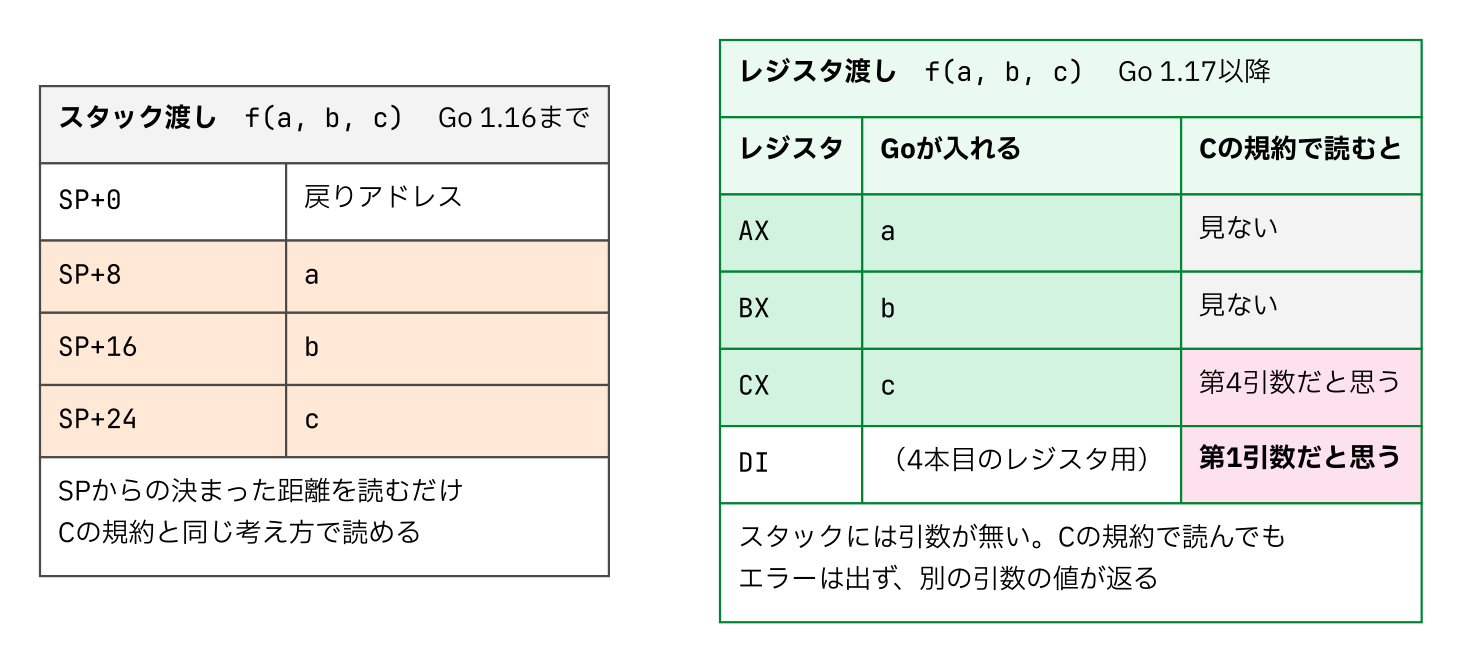
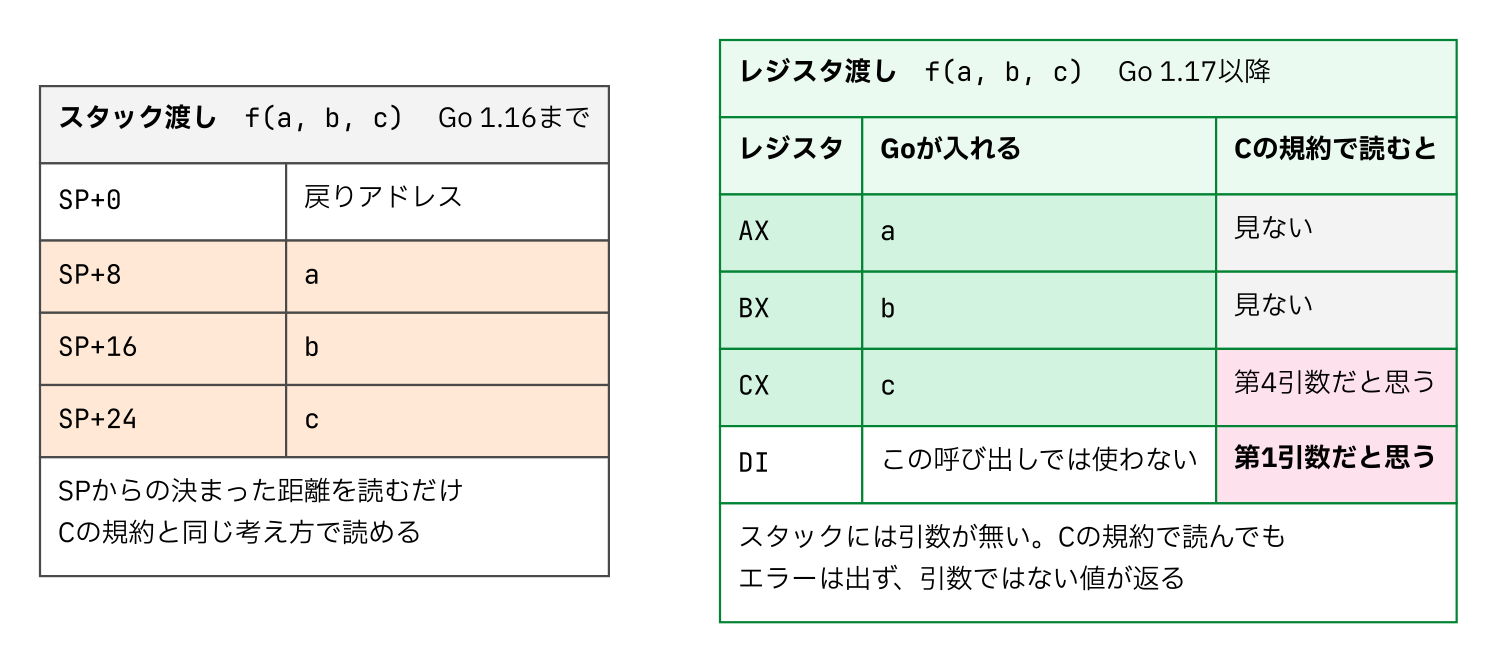
fix(go-ebpf-primer): 二重注入の断定、スタック走査の順序、RDIの値、畳み込みを訂正する
独立検証（reviews/20260911-...-independent-verification.md）の指摘10件と、
前回レポートの任意4件に対応。

重大:
- 既存traceparentの検査は先頭1023バイトまでなので、二重注入は起きうる。
  「二重になることはありません」を条件付きの説明に改め脚注で根拠を示す

要修正:
- ライブラリ計装の断定にuprobeという条件を付ける。JavaエージェントでNettyを
  計装する実装があるため（1・6・8章と図2）
- スタック走査の順序を「PCから関数を特定→フレーム情報→戻りアドレス」に訂正。
  図2・図3も合わせ、図3のアドレスの上下を図2に揃える
- 整数3個の呼び出しではRDIに引数を割り当てないので「別の引数の値」は誤り
- double(21)は42へ畳み込まれるので「2倍の計算が埋め込まれる」は誤り（図も）
- HPACKの索引は静的表なら過去の通信なしで解釈できる
- 親goroutineの遡りはサーバー側にもある

軽微・任意:
- 「89個の構造体」を削り154フィールドのみに
- otelcの生成コードの識別子を短縮している旨を明記
- -workが残すのはビルドキャッシュではなく一時作業ディレクトリ
- ebpf.ioを日本語版へ
- オフセット表の検索を「通常の表検索」に限定
- 「次の節」が次章を指していた2箇所
- この例ではパディングの大きさは変わらない

diff --git a/books/go-ebpf-primer/40-hurdle1_uretprobe.md b/books/go-ebpf-primer/40-hurdle1_uretprobe.md
@@ -23,12 +23,12 @@ title: "難所1　uretprobeが使えない"
 
 ここで問題になるのは、ポインタの補正そのものではありません。補正するために、ランタイムがスタックを**辿らなければならない**ことです。
 
-辿るというのが何をすることなのか、具体的に見ておきます。ランタイムはまず新しい領域を確保して、いま使っている範囲を丸ごとコピーします。そのあと、フレームを1つずつ辿って、コピーした側のポインタを直していきます。出発点は、いま実行中の関数のフレームです。ランタイムはそこに積まれた戻りアドレスを読みます。その値は呼び出し元の関数の中にある命令のアドレスなので、4章で見た `.gopclntab`（命令アドレスからGoの関数名を引く表）を引けば、どの関数のフレームなのかが分かります。関数が分かると、そのフレームの大きさと、フレームのどこにポインタがあるかも分かります。ポインタの位置が分かるから、それらを新しいアドレスへ書き換えられ、大きさが分かるから、次のフレームがどこから始まるのかも決まります。あとは呼び出し元のフレームへ移って、goroutineの起点まで同じことを繰り返します。
+辿るというのが何をすることなのか、具体的に見ておきます。ランタイムはまず新しい領域を確保して、いま使っている範囲を丸ごとコピーします。そのあと、フレームを1つずつ辿って、コピーした側のポインタを直していきます。出発点は、止まっているgoroutineのプログラムカウンタとスタックポインタです。ランタイムはプログラムカウンタから、4章で見た `.gopclntab`（命令アドレスからGoの関数名を引く表）を引いて、いま実行中の関数を特定します。関数が分かると、そのフレームの大きさと、フレームのどこにポインタがあるかが分かります。ポインタの位置が分かるから、それらを新しいアドレスへ書き換えられます。フレームの大きさが分かるから、呼び出し元へ戻るアドレスがどこに積まれているかも決まります。その戻りアドレスを読んで、また同じ表を引けば、次に処理する呼び出し元の関数が分かります。あとはそちらへ移って、goroutineの起点まで同じことを繰り返します。
 
-1フレームを処理するのに必要な情報は、どれも「戻りアドレスからどの関数かを引けること」の先にあります。関数が引けなければ、フレームの大きさが分からず、次のフレームがどこから始まるのかも決められません。値を読めるかどうかではなく、読んだ値から関数に辿り着けるかどうかが問題になります。
+つまり1フレームを処理するたびに、「読み取った戻りアドレスから関数を引く」ことが次の一歩の前提になります。関数が引けなければ、そこから先のフレームの大きさが分からず、走査はそこで止まります。値を読めるかどうかではなく、読んだ値から関数に辿り着けるかどうかが問題になります。
 
 ![スタックを移すときの1フレームずつの走査](/images/20260911-stack-walk.png)
-*図2: 実線の矢印は処理の順序、破線は呼び出し元のフレームへ移って同じ手順を繰り返すことを表す。フレームの大きさとポインタの位置は、戻りアドレスから引いた関数の情報として得られる。*
+*図2: 実線の矢印は処理の順序、破線は呼び出し元のフレームへ移って同じ手順を繰り返すことを表す。いま実行中の関数はプログラムカウンタから引き、その関数の情報からフレームの大きさとポインタの位置が決まる。*
 
 uretprobeが書き換えた戻りアドレスは、Goバイナリの関数ではなくカーネルが用意したトランポリンを指しています。この領域はGoのコードが置かれている範囲の外にあり、`/proc/<PID>/maps` では `[uprobes]` という名前で見えます。表を引いても該当する関数はありません。スタックのコピーやGCの走査は途中でやめられない処理なので、ランタイムは `fatal error: unknown caller pc` で落ちます。go1.26では `runtime/traceback.go` の `unwinder.next` が、戻りアドレスを `findfunc` に渡して失敗したときにこのエラーを投げています。
 
@@ -55,7 +55,7 @@ runtime.morestack()
 下から読むと、スタックが足りなくなって `morestack` に入り、`newstack` が引っ越しの本体である `copystack` を呼び、その中でフレームを辿ろうとして落ちています。1行目の `0x7fffffffe000` がトランポリンのアドレスで、`crypto/x509.(*Certificate).Verify` から戻る先がそこになっていた、という報告です。go1.10のときの報告なので、フレームを辿る部分の関数名は当時の `gentraceback` になっています。これがGoとuretprobeが相容れない理由です（[golang/go#22008](https://github.com/golang/go/issues/22008)）。
 
 ![戻りアドレスから関数を引けないと、スタックを辿れない](/images/20260911-unwind-failure.png)
-*図3: 実線の矢印は処理の流れ、破線はスタックから読み取る値を表す。ランタイムは戻りアドレスを手がかりに「どの関数のフレームか」を `.gopclntab` から引く。トランポリンはGoのリンカが知らない領域なのでこの表に登録されておらず、そこで辿れなくなる。*
+*図3: 実線の矢印は処理の流れ、破線はスタックから読み取る値を表す。ランタイムは読み取った戻りアドレスを手がかりに「呼び出し元はどの関数か」を `.gopclntab` から引く。トランポリンはGoのリンカが知らない領域なのでこの表に登録されておらず、そこで辿れなくなる。*
 
 ## 動くスタックの実測
 
@@ -187,7 +187,7 @@ $ go tool objdump -s 'main\.Lookup$' s2_ret
 
 ただし、いま見ている `Lookup` の `defer` は `mu.Unlock()` で、`recover` はしません。この関数の中でパニックが起きれば、2つ目の `RET` にも戻らずに巻き戻りが外へ抜けていきます。先に見たとおり、外側で `recover` されても、飛ばされた `Lookup` はどちらの `RET` も通りません。つまり `RET` が2つあることと、パニック時にその2つ目へ来ることは別の話です。どの経路で抜けるかを呼び出しごとに見分けられないからこそ、OBIは全部の `RET` にuprobeを置きます。
 
-ついでに、この出力には後の節で扱う要素が2つ写り込んでいます。1行目の `CMPQ SP, 0x10(R14)` は、いま説明したスタック伸長の判定です。`R14` の指す構造体の16バイト目に入っている値とスタックポインタを比べ、足りなければ最終行の `runtime.morestack_noctxt` へ飛びます。その `R14` が何なのかは、難所2で扱います。
+ついでに、この出力にはここまでの説明と難所2に関係する要素が2つ写り込んでいます。1行目の `CMPQ SP, 0x10(R14)` は、いま説明したスタック伸長の判定です。`R14` の指す構造体の16バイト目に入っている値とスタックポインタを比べ、足りなければ最終行の `runtime.morestack_noctxt` へ飛びます。その `R14` が何なのかは、難所2で扱います。
 
 ## OBIの実装
 

diff --git a/books/go-ebpf-primer/50-hurdle3_offsets.md b/books/go-ebpf-primer/50-hurdle3_offsets.md
@@ -6,7 +6,7 @@ title: "難所3　バージョン依存のフィールドオフセット"
 
 8章で見たプロトコル計装なら、ソケットを流れるバイト列から同じものが取れそうに思えます。平文のHTTP/1.1なら実際に取れていて、OBIは `GET /items HTTP/1.1` という先頭のバイト列からメソッドとパスを読み出しています。それでもGoに対して構造体を読むのは、バイト列では届かない場合があるからです。
 
-1つはTLSです。Goは `crypto/tls` を自前で持っていて静的リンクするので、6章で触れたOpenSSLの共有ライブラリの関数にuprobeを置くという手が使えません。ソケットに現れるのは暗号化された後のバイト列だけです。OBIはGoのプロセスに対しては `crypto/tls.(*Conn).Read` と `Write` にuprobeを置き、暗号化される前と復号された後の平文をそこで読んでいます。もう1つはHTTP/2とgRPCです。HTTP/2はヘッダの名前と値を[HPACK](https://www.rfc-editor.org/rfc/rfc7541.html)という仕組みで圧縮し、接続ごとに作る表の索引に置き換えます。2回目以降のリクエストの `:path` は索引だけになるので、その接続を最初のバイトから見ていなければ元の文字列に戻せません。OBIはこの場合、スパン名を `*` に落とします。加えて、ソケットから拾う経路が既定で見るのはリクエストの先頭256バイトだけです（設定で本文を取り込む機能を有効にすれば、HTTP/1.1ならもっと長く扱えます）。ルーティングのテンプレートのように、そもそもバイト列に現れない値もあります。
+1つはTLSです。Goは `crypto/tls` を自前で持っていて静的リンクするので、6章で触れたOpenSSLの共有ライブラリの関数にuprobeを置くという手が使えません。ソケットに現れるのは暗号化された後のバイト列だけです。OBIはGoのプロセスに対しては `crypto/tls.(*Conn).Read` と `Write` にuprobeを置き、暗号化される前と復号された後の平文をそこで読んでいます。もう1つはHTTP/2とgRPCです。HTTP/2はヘッダの名前と値を[HPACK](https://www.rfc-editor.org/rfc/rfc7541.html)という仕組みで圧縮し、索引に置き換えることがあります。索引には規格で決まっている静的な表と、接続ごとに作る動的な表があります。静的な表の項目や、その場で文字列が送られる形式なら、途中から観測を始めても読めます。読めないのは、観測を始める前に動的な表へ登録された項目が参照された場合です。OBIはこのように必要なヘッダを復元できないとき、スパン名を `*` に落とします。加えて、ソケットから拾う経路が既定で見るのはリクエストの先頭256バイトだけです（設定で本文を取り込む機能を有効にすれば、HTTP/1.1ならもっと長く扱えます）。ルーティングのテンプレートのように、そもそもバイト列に現れない値もあります。
 
 だからGoに対する計装は、直列化される前の構造体を読みます。`http.Request` の `Method` や `URL`、gRPCの `transport.Stream` の `method` を、バイト位置で読み出します。外部の計装ツールは、どのフィールドがどこにあるかをどうやって知るのでしょうか。ここが4つの中で最も対処が難しい難所です。しくじったときの症状は難所2と同型で、クラッシュではなく、中身の誤ったトレースとして現れます。
 
@@ -116,7 +116,7 @@ v2: id=24  method=32
 追加したフィールドより後ろにあるものが、まとめてずれました。なぜこの数になるのかを、バイトの並びで見ておきます。`any` は型へのポインタとデータへのポインタの2つで16バイト、`func()` はポインタ1つで8バイト、`string` はポインタと長さで16バイトです。`uint32` は4バイトですが、直後の `string` の先頭はポインタなので8バイト境界から始まる必要があり、次の8バイト境界まで詰め物が入ります。
 
 ![フィールドを1つ足すと後ろがずれる](/images/20260911-struct-byte-band.png)
-*図1: 矢印はフィールドを1つ足したという変更を表す。詰め物の位置と大きさも変わるので、後ろのフィールドは足した分と同じ8バイトだけずれる。*
+*図1: 矢印はフィールドを1つ足したという変更を表す。後ろのフィールドは足した分と同じ8バイトだけずれる。*
 
 `method` の位置に24をハードコードしていたコードは、`v2` に対しては `id` と詰め物をまたいだ中途半端な位置を読みます。
 
@@ -131,7 +131,7 @@ v2: id=24  method=32
 | 1.69.0 以降 | 24 |
 | 1.77.0 以降 | 16 |
 
-内部パッケージ `internal/transport` の型なので、互換性の約束は及びません。Goでは `internal` を含むパスのパッケージを外部から参照できず、この型はライブラリの利用者に見せるものではありません。だから開発者は、更新のときにフィールドの並びを自由に変えられます。その自由さの代償を、メモリ位置で外から読むOBIが引き受けています。同じ表の中では `golang.org/x/net/http2.ClientConn.fr` がさらに動いていて、記録された区間は8つ、位置の変化は7回にのぼります（うち一度は、以前の位置に戻っています）。`offsets.json` 全体では89個の構造体、154個のフィールドを追跡しており、うち43個のフィールドが「過去に一度以上動いた」記録を持っています（v0.13.0時点の数で、構造体のサイズや定数のエントリは除いています）。
+内部パッケージ `internal/transport` の型なので、互換性の約束は及びません。Goでは `internal` を含むパスのパッケージを外部から参照できず、この型はライブラリの利用者に見せるものではありません。だから開発者は、更新のときにフィールドの並びを自由に変えられます。その自由さの代償を、メモリ位置で外から読むOBIが引き受けています。同じ表の中では `golang.org/x/net/http2.ClientConn.fr` がさらに動いていて、記録された区間は8つ、位置の変化は7回にのぼります（うち一度は、以前の位置に戻っています）。`offsets.json` 全体では154個のフィールドの位置を追跡しており、うち43個のフィールドが「過去に一度以上動いた」記録を持っています（v0.13.0時点の数で、構造体のサイズや定数のエントリは除いています）。
 
 ![バージョン間でオフセットがずれる](/images/20260911-offset-shift.png)
 *図2: 矢印は計装コードがどの位置を読むかを表す。ハードコードした `+88` は grpc 1.66 では `method` を指すが、1.69 では別のフィールドを指す。クラッシュせずに「それらしく動いてしまう」のが最悪の結果になる。*

diff --git a/books/go-ebpf-primer/45-hurdle2_abi.md b/books/go-ebpf-primer/45-hurdle2_abi.md
@@ -22,7 +22,7 @@ RAX, RBX, RCX, RDI, RSI, R8, R9, R10, R11
 
 この列に載るのは整数とポインタの引数です。9個を超える分やレジスタに収まらない大きな構造体はスタックに置かれ、浮動小数点の引数は2章で触れた浮動小数点用のレジスタ群で渡ります。本書がこの整数の列だけを見ていくのは、OBIが読む引数がポインタと整数しかないからです。計装の対象は `net/http` やgRPCの関数で、そこで受け渡されるのは構造体へのポインタ、文字列、整数です。あとで引用するOBIのマクロにも、浮動小数点用のレジスタを読むものは1つもありません。`RAX` と `AX` という表記の揺れについては、2章で断ったとおりです。
 
-この変更でGoの関数呼び出しは速くなりましたが、外から引数を読む側は、どの引数がどのレジスタに入るのかをアーキテクチャごとに知っていなければならなくなりました。汎用のeBPFツールは、Linuxの標準であるCの呼び出し規約を前提に作られています。Cもレジスタで引数を渡しますが、使うレジスタの選び方が違います。Cは `RDI, RSI, RDX, RCX, R8, R9` の順なので、第1引数として `RDI` を読みます。Goがそこに入れているのは4番目のレジスタで渡される値です。空でもゼロでもなく、別の引数の値がそこにあります。何番目の引数がそこに来るかは、引数の型で変わります。ABIInternalは各引数を基本的な成分に分解してからレジスタに割り当てるので、`int` のような値は1本、文字列とインタフェースは2本、スライスは3本を使います。整数だけを並べた関数なら `RDI` は第4引数ですが、`f(a string, b, c int)` なら第3引数の `c` です。この後で引用するOBIのマクロ `GO_PARAM4` も、「第4引数」ではなく「4本目のレジスタ」を指しています。
+この変更でGoの関数呼び出しは速くなりましたが、外から引数を読む側は、どの引数がどのレジスタに入るのかをアーキテクチャごとに知っていなければならなくなりました。汎用のeBPFツールは、Linuxの標準であるCの呼び出し規約を前提に作られています。Cもレジスタで引数を渡しますが、使うレジスタの選び方が違います。Cは `RDI, RSI, RDX, RCX, R8, R9` の順なので、第1引数として `RDI` を読みます。Goの第1引数は `RAX` なので、読む場所がずれます。`RDI` に何が入っているかは呼び出しによって変わります。ABIInternalは各引数を基本的な成分に分解してからレジスタに割り当てるので、`int` のような値は1本、文字列とインタフェースは2本、スライスは3本を使います。4本目まで届く呼び出しなら別の引数の成分がそこに入り、整数3個の `Add3(1, 2, 3)` のように3本で足りる呼び出しなら、`RDI` は引数として使われず、前の処理が残した値がそのままあります。`f(a string, b, c int)` なら4本目は第3引数の `c` です。この後で引用するOBIのマクロ `GO_PARAM4` も、「第4引数」ではなく「4本目のレジスタ」を指しています。
 
 厄介なのは、間違えても何も起きないことです。ツールは正常に動き、値を返してきます。エラーもクラッシュも出ません。ただ中身が違うだけです。難所1のuretprobeはアプリが落ちるので気づけましたが、こちらは気づけません。
 
@@ -147,7 +147,7 @@ typedef struct go_addr_key {
 
 必要なのは「あのときのgoroutineと、いまのgoroutineが同じか」という判定であって、人間が読む番号ではありません。アドレスはその判定に十分で、しかも構造体の中身を一切読まずに済みます。
 
-この選び方が意味を持つのは、次の節との関係です。`goid` を読むには「`g` 構造体の先頭から何バイト目か」を知らなければならず、それはGoのバージョンごとに変わりえます。アドレスを使うかぎり、その追従が要りません。実際、OBIのオフセット表に `runtime.g` のエントリは存在しません。
+この選び方が意味を持つのは、次章のフィールドオフセットの問題との関係です。`goid` を読むには「`g` 構造体の先頭から何バイト目か」を知らなければならず、それはGoのバージョンごとに変わりえます。アドレスを使うかぎり、その追従が要りません。実際、OBIのオフセット表に `runtime.g` のエントリは存在しません。
 
 ![uprobe 発火時に OBI が読むもの](/images/20260911-goroutine-key.png)
 *図2: 実線の矢印はデータの流れ、丸印の付いた破線は「読まない」ことを表す。OBIはR14（arm64ではR28）の値をそのまま goroutine の識別子に使い、ポインタの先にある `g` 構造体の中身は読まない。フィールドの並びがバージョンで変わっても壊れない。*

diff --git a/books/go-ebpf-primer/00-introduction.md b/books/go-ebpf-primer/00-introduction.md
@@ -4,7 +4,7 @@ title: "はじめに"
 
 本書は、Go Conference 2026での筆者の登壇「[OpenTelemetry eBPF Instrumentationの舞台裏](https://gocon.jp/2026/timetable/1263399/)」の解説資料です。登壇は40分の上級者向けセッションですが、本書は同じ内容を、計算機の仕組みを学び始めたばかりの読者でも前提知識の章から順に読めば追えるように書き直したものです。
 
-[**eBPF**](https://ebpf.io/)（Linuxカーネルの中へ小さな観測プログラムを差し込む仕組み。詳しくは本文で扱います）を使うと、アプリケーションを変更せずにHTTPやgRPCの分散トレースを取得できます。いわゆる**ゼロコード計装**（zero-code instrumentation）です。再ビルドも再デプロイも要らず、言語も問いません。製品の説明ではそう語られます。
+[**eBPF**](https://ebpf.io/ja/)（Linuxカーネルの中へ小さな観測プログラムを差し込む仕組み。詳しくは本文で扱います）を使うと、アプリケーションを変更せずにHTTPやgRPCの分散トレースを取得できます。いわゆる**ゼロコード計装**（zero-code instrumentation）です。再ビルドも再デプロイも要らず、言語も問いません。製品の説明ではそう語られます。
 
 ところが、この計装の定石のひとつ（関数から戻る瞬間で発火するフック）をGoのバイナリに使うと、最悪の場合、観測対象のGoプログラムが次のエラーを出して落ちます。
 
@@ -16,7 +16,7 @@ fatal error: unknown caller pc
 
 本書では、この種のつまずきを4つの**難所**として扱います。難所の正体は、Goを高速かつ書きやすい言語にしている設計そのものです。一般的なeBPF計装の定石は、スタックがOSに管理されて動かないこと、呼び出し規約がプラットフォームの標準に従うことを前提にしています。Cで書かれたプログラムはこの2つを満たします。一方Goは、goroutineのスタックを実行中に動かし、独自の呼び出し規約を持ち、スケジューリングもメモリ管理もランタイムが自前で抱えています。
 
-題材にするのは、[Grafana Beyla](https://grafana.com/oss/beyla-ebpf/)がOpenTelemetryプロジェクトに寄贈されて生まれた[**OpenTelemetry eBPF Instrumentation**](https://opentelemetry.io/ja/docs/zero-code/obi/)（OBI）です。OBIが `net/http` やgRPCといったライブラリの関数まで踏み込んで計装するのは、Goに対してだけです（他の言語でもランタイム内部の関数にはフックを置きますが、その上で動くライブラリには届きません。この違いは8章で見ます）。4つの難所には、手元で実行して確かめられるコードを用意しました。そのうえで、同じことをOBIが実際にどう書いているかを見ます。
+題材にするのは、[Grafana Beyla](https://grafana.com/oss/beyla-ebpf/)がOpenTelemetryプロジェクトに寄贈されて生まれた[**OpenTelemetry eBPF Instrumentation**](https://opentelemetry.io/ja/docs/zero-code/obi/)（OBI）です。OBIが `net/http` やgRPCといったライブラリの関数まで、uprobeで踏み込んで計装するのはGoに対してだけです（他の言語ではランタイム内部の関数にフックを置く方式が中心になります。この違いは8章で見ます）。4つの難所には、手元で実行して確かめられるコードを用意しました。そのうえで、同じことをOBIが実際にどう書いているかを見ます。
 
 :::message
 本書の実行結果と引用は、次のバージョンで確かめたものです。

diff --git a/books/go-ebpf-primer/60-for_go_developers.md b/books/go-ebpf-primer/60-for_go_developers.md
@@ -39,7 +39,7 @@ DWARF（型とフィールドの位置を含むデバッグ情報）とシンボ
 
 関数のアドレスは、これでも引き続き特定できます。`go tool nm` や `go tool objdump` はシンボルテーブルが無いと動きませんが、OBIはそれらに依存していません。`pkg/internal/goexec/instructions.go` は `.gopclntab` を自前で解析します。`runtime.moduledata` にはシンボルも固定アドレスも無いため、そのコメントによれば「`.gopclntab` を指す8バイト境界の値をバイナリ中から探し、周囲のデータがmoduledataの並びに合致するかを確認する」という探し方をしています。シンボルが無くても関数の位置は割り出せる、という作りになっています。
 
-変わるのはオフセットの解決経路です。難所3で見たとおり、OBIはまずバイナリのDWARFからフィールドオフセットを読もうとします。`-w` でDWARFを落とすと、読める分がゼロになるので、全項目を `offsets.json` の表から引くことになります。つまり「目の前のバイナリに書いてある正解を読む」状態から「事前に用意された表が自分のバージョンを網羅していることを期待する」状態へ移ります。ここで注意したいのは、表より新しいバージョンのライブラリを使っていても、検索は失敗しないことです。表の検索は新しい記録から順に見ていって「このバージョン以下で最も新しい記録」を返すので、記録の範囲を超えたバージョンには、最後に記録された値がそのまま返ります。レイアウトが変わっていれば、誤った位置を読んだ結果が正しい値のようにトレースへ載ります。12章で見た「クラッシュせずにそれらしく動いてしまう」症状が、ここで出ます。項目が解決できずに欠けるのは、そのバージョンが最初の記録より古い場合か、フィールドがそもそも追跡の対象でない場合です。
+変わるのはオフセットの解決経路です。難所3で見たとおり、OBIはまずバイナリのDWARFからフィールドオフセットを読もうとします。`-w` でDWARFを落とすと、読める分がゼロになるので、全項目を `offsets.json` の表から引くことになります。つまり「目の前のバイナリに書いてある正解を読む」状態から「事前に用意された表が自分のバージョンを網羅していることを期待する」状態へ移ります。ここで注意したいのは、表より新しいバージョンのライブラリを使っていても、検索は失敗しないことです。表の検索は新しい記録から順に見ていって「このバージョン以下で最も新しい記録」を返すので、記録の範囲を超えたバージョンには、最後に記録された値がそのまま返ります。レイアウトが変わっていれば、誤った位置を読んだ結果が正しい値のようにトレースへ載ります。12章で見た「クラッシュせずにそれらしく動いてしまう」症状が、ここで出ます。通常の表検索で項目が解決できずに欠けるのは、そのバージョンが最初の記録より古い場合か、フィールドがそもそも追跡の対象でない場合です。
 
 DWARFを残しておくと計装は堅くなります。`-w` を付けるかどうかは、配布サイズと計装の確実性のどちらを取るかという判断になります。
 

diff --git a/books/go-ebpf-primer/25-go_runtime.md b/books/go-ebpf-primer/25-go_runtime.md
@@ -10,7 +10,9 @@ Goのバイナリには、書いたコードのほかにランタイムが入っ
 
 これは計装する側から見ると好都合です。誤解しやすい点を先に断っておくと、uprobeは「どのファイルの、先頭から何バイト目か」という形で置くので、共有ライブラリに置けないわけではありません（実際OBIは、TLSの通信を読むために[OpenSSL](https://www.openssl.org/)の共有ライブラリにもuprobeを置いています）。静的リンクの利点は別のところにあります。アプリのコードも、`net/http` のようなライブラリも、ランタイムも、すべてが1つのファイルに入っていて、ファイル内の位置がビルド時に決まっていることです。`/proc/<PID>/exe` から辿れるその1つのファイルを解析すれば、計装したい関数がすべて見つかります。
 
-1章で「ライブラリの関数まで踏み込んだ計装を持つ言語はGoだけ」と書いた理由も、ここにあります。JITコンパイラやインタプリタの上で動く言語では、ユーザーコードの機械語は実行時に生成されるので、実行ファイルを解析しても関数の位置は分かりません。ランタイム本体の共有ライブラリ（`libjvm.so` やCPython）には固定のアドレスがあるので、OBIはそちらへはフックを置いています。届かないのは、その上で動くライブラリの関数です。Goはコンパイル時にすべての関数の位置が決まり、シンボルテーブルや `.gopclntab` で引けます。だからこそ「アドレスにフックを置く」計装が成立します。
+1章で「ライブラリの関数までuprobeで踏み込む計装はGoだけ」と書いた理由も、ここにあります。JITコンパイラやインタプリタの上で動く言語では、ユーザーコードの機械語は実行時に生成されるので、実行ファイルを解析しても関数の位置は分かりません。ランタイム本体の共有ライブラリ（`libjvm.so` やCPython）には固定のアドレスがあるので、OBIはそちらへはフックを置いています。その上で動くライブラリの関数には、実行ファイルから位置を割り出す方式が使えません[^java-agent]。Goはコンパイル時にすべての関数の位置が決まり、シンボルテーブルや `.gopclntab` で引けます。だからこそ「アドレスにフックを置く」計装が成立します。
+
+[^java-agent]: 方式を変えれば届きます。OBIにはJavaエージェントを使う実装もあり、そちらではNettyの `SslHandler` のメソッドをバイトコードの変換で計装しています。uprobeで固定アドレスを狙う方式とは別の仕組みです。
 
 ## OSスレッドとgoroutine
 

diff --git a/books/go-ebpf-primer/20-function_call.md b/books/go-ebpf-primer/20-function_call.md
@@ -104,7 +104,7 @@ $ go tool objdump -s 'main\.double$' demo
 プラットフォームには標準の呼び出し規約があり、Linuxのamd64ならCのプログラムはみなそれに従います。外から観測する道具も、当然その標準を前提に作られています。Goがこの標準に従っていないことが、難所2の主題になります。
 
 ![スタック渡しとレジスタ渡し](/images/20260911-convention-stack-vs-register.png)
-*図3: 同じ `f(a, b, c)` の呼び出しでも、規約によって引数の置き場所が変わる。スタック渡しでは `CALL` が積んだ戻りアドレスの先、`SP+8` から引数が並ぶ。レジスタ渡しではスタックに引数が無く、Cの規約を前提に読むと第1引数として `RDI` を見るので、Goが4本目のレジスタとして使っているものの値が返る。エラーにはならず、別の引数の値が読めてしまう。*
+*図3: 同じ `f(a, b, c)` の呼び出しでも、規約によって引数の置き場所が変わる。スタック渡しでは `CALL` が積んだ戻りアドレスの先、`SP+8` から引数が並ぶ。レジスタ渡しではスタックに引数が無く、Cの規約を前提に読むと第1引数として `RDI` を見るが、この呼び出しはそこに引数を割り当てていない。エラーにはならず、引数ではない値が読めてしまう。*
 
 ## インライン展開
 
@@ -142,5 +142,5 @@ $ go build -gcflags=-m main.go
 
 :::details 解答
 1. フレームにはローカル変数のほかに戻りアドレスなどの固定分も積まれるので、間隔は「64バイト増えて240になる」とは限りませんが、およそ64バイト広がります。手元の測定では176バイトから240バイトになりました。
-2. `double` がインライン展開され、呼び出しが `CALL` として残っていないからです。`main.main` の中に `double` の中身（2倍の計算）が直接埋め込まれています。このときシンボル `main.double` 自体もバイナリから消えます。
+2. `double` がインライン展開され、呼び出しが `CALL` として残っていないからです。この例は引数が定数の `double(21)` なので、展開された2倍の計算もコンパイル時に畳み込まれ、42を読み込む命令になります。シンボル `main.double` 自体もバイナリから消えます。
 :::

diff --git a/books/go-ebpf-primer/30-ebpf.md b/books/go-ebpf-primer/30-ebpf.md
@@ -4,7 +4,7 @@ title: "eBPFとは何か"
 
 ## カーネルの中で動く小さなプログラム
 
-[eBPF](https://ebpf.io/)は、ユーザーが書いた小さなプログラムをLinuxカーネルの中にロードして、特定のイベントが起きたときに実行させる仕組みです。イベントとは、システムコールが呼ばれた、パケットが届いた、ある命令アドレスに到達した、といったものを指します。カーネルを再ビルドしたり、カーネルモジュールを書いたりする必要はありません。仕様と実装はLinuxカーネルの一部で、[カーネル側のドキュメント](https://docs.kernel.org/bpf/)にまとまっています。
+[eBPF](https://ebpf.io/ja/)は、ユーザーが書いた小さなプログラムをLinuxカーネルの中にロードして、特定のイベントが起きたときに実行させる仕組みです。イベントとは、システムコールが呼ばれた、パケットが届いた、ある命令アドレスに到達した、といったものを指します。カーネルを再ビルドしたり、カーネルモジュールを書いたりする必要はありません。仕様と実装はLinuxカーネルの一部で、[カーネル側のドキュメント](https://docs.kernel.org/bpf/)にまとまっています。
 
 たとえば「`openat` システムコールが呼ばれたら、そのファイル名を記録する」「ある命令アドレスに到達したら、その時刻を控える」といった処理を書けます。本書で扱うのは後者、つまりユーザー空間のプログラムの特定のアドレスにフックを置く使い方です。
 

diff --git a/books/go-ebpf-primer/65-conclusion.md b/books/go-ebpf-primer/65-conclusion.md
@@ -73,10 +73,11 @@ func (t *Transport) RoundTrip(req *Request) (*Response, error) {
 }
 ```
 
-`otelc go build` は前述のとおり内部で `-work` フラグを付けているため、ビルドが終わったあともGoのビルドキャッシュに書き換え後のソースが残ります。そこを覗くと、次のようになっていました。
+`otelc go build` は前述のとおり内部で `-work` フラグを付けているため、ビルドが終わったあともビルドの一時作業ディレクトリに書き換え後のソースが残ります。そこを覗くと、次のようになっていました。
 
 ```go
 // net/http/roundtrip.go（otelcが実際に書き換えた後の姿。実機で確認）
+// 戻り値の長い識別子は、読みやすさのため _r0 / _r1 に置き換えています。
 func (t *Transport) RoundTrip(req *Request) (_r0 *Response, _r1 error) {
 	if hookContext3038199408, _ := OtelBeforeTrampoline_RoundTrip3038199408(&t, &req); false {
 	} else {
